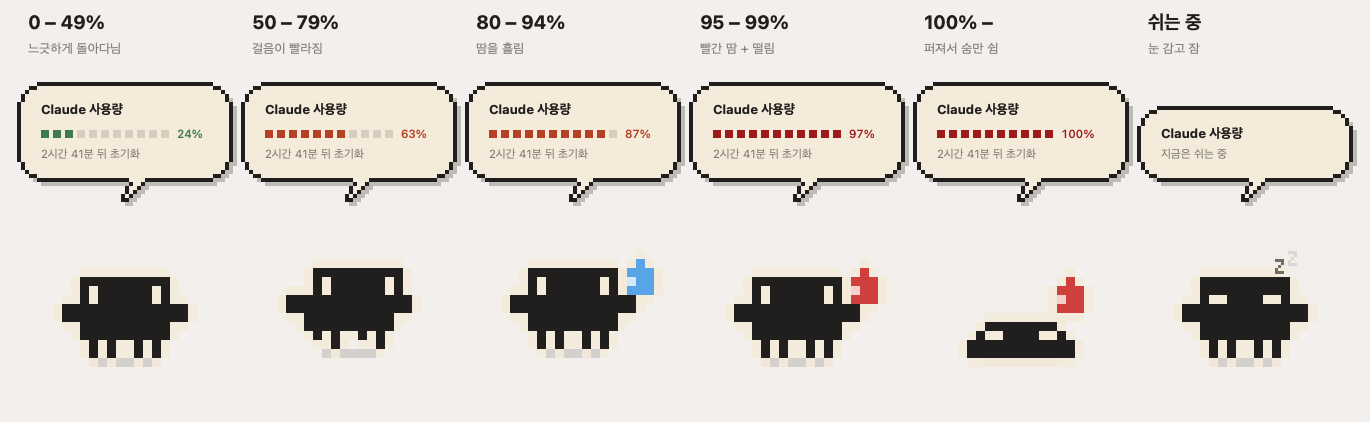
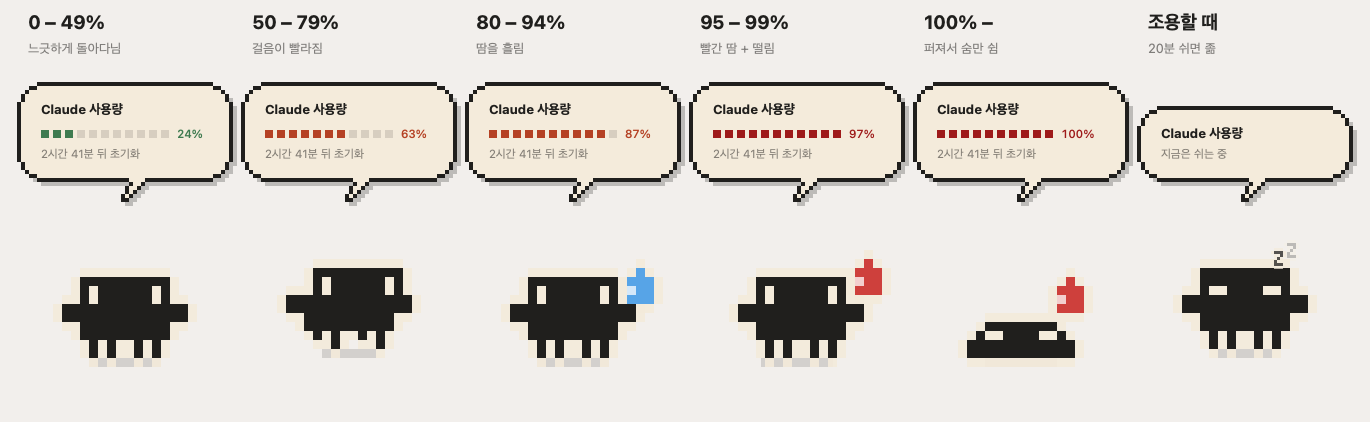
일정 시간 요청이 없으면 졸도록 변경
전에는 5시간 블록이 닫혀야만 잤다. 그래서 일을 일찍 끝내도 블록이 닫힐
때까지는 계속 깨어 서 있었다. 이제 마지막 요청 이후 doze_after_minutes
(기본 20분) 가 지나면 사용률과 무관하게 존다.

한도를 다 쓴 상태가 졸기보다 앞선다. 자는 동안에는 돌아다니지 않는다.

diff --git a/buddy/usage.py b/buddy/usage.py
@@ -287,18 +287,31 @@ class Snapshot:
     week_cost: float
     by_model: list[tuple[str, float]]   # (표시명, 비용) 내림차순
     total_requests: int
+    idle_seconds: float                 # 마지막 요청 이후 지난 시간
+    doze_after: float                   # 이만큼 조용하면 존다
 
     @property
     def has_data(self) -> bool:
         return self.total_requests > 0
 
     @property
+    def dozing(self) -> bool:
+        """블록은 열려 있지만 한동안 조용한 상태."""
+        return self.idle_seconds >= self.doze_after
+
+    @property
     def mood(self) -> str:
-        """마스코트 표정을 정하는 단계."""
+        """마스코트 표정을 정하는 단계.
+
+        한도를 다 쓴 상태가 가장 먼저다. 그다음이 졸기 — 쓰지 않는 동안에는
+        사용률이 얼마든 자게 둔다. 깨어 있을 때만 사용률로 표정을 정한다.
+        """
         if self.block is None or not self.block.is_active(self.generated_at):
             return "sleepy"
         if self.percent >= 100:
             return "exhausted"
+        if self.dozing:
+            return "sleepy"
         if self.percent >= 95:
             return "panic"
         if self.percent >= 80:
@@ -313,6 +326,7 @@ def summarize(
     block_hours: int = 5,
     manual_limit: float | None = None,
     now: float | None = None,
+    doze_after_seconds: float = 1200.0,
 ) -> Snapshot:
     now = now if now is not None else time.time()
     blocks = build_blocks(entries, block_hours)
@@ -359,6 +373,8 @@ def summarize(
         week_cost=w_cost,
         by_model=sorted(per_model.items(), key=lambda kv: -kv[1]),
         total_requests=len(entries),
+        idle_seconds=(now - entries[-1].ts) if entries else float("inf"),
+        doze_after=doze_after_seconds,
     )
 
 

diff --git a/buddy/app.py b/buddy/app.py
@@ -254,6 +254,7 @@ class BuddyController(NSObject):
                     self.index.entries,
                     self.cfg["block_hours"],
                     self.cfg.get("block_cost_limit"),
+                    doze_after_seconds=self._doze_seconds(),
                 )
             except Exception:  # 갱신 실패로 마스코트가 멈추면 안 된다
                 pass
@@ -291,6 +292,11 @@ class BuddyController(NSObject):
         self._update_bubble(now)
 
     @objc.python_method
+    def _doze_seconds(self) -> float:
+        minutes = float(self.cfg.get("doze_after_minutes") or 0)
+        return minutes * 60.0 if minutes > 0 else float("inf")
+
+    @objc.python_method
     def _demo_mood(self) -> str | None:
         """--demo 로 고정한 표정. cycle 이면 일정 간격으로 돌아간다."""
         if self.force_mood is None:
@@ -317,8 +323,8 @@ class BuddyController(NSObject):
             self.walk_state = "idle"
             self.state_until = max(self.state_until, now + 1.0)
             return
-        # 다 써 버려 누워 있는 동안에는 움직이지 않는다
-        if not self.cfg["mascot"].get("wander", True) or self.state.mood == "exhausted":
+        # 뻗어 있거나 자는 동안에는 움직이지 않는다
+        if not self.cfg["mascot"].get("wander", True) or self.state.mood in ("exhausted", "sleepy"):
             self.walk_state = "idle"
             return
 

diff --git a/buddy/cli.py b/buddy/cli.py
@@ -12,7 +12,13 @@ def _snapshot():
     cfg = config.load()
     index = UsageIndex(retention_days=cfg["retention_days"])
     index.refresh()
-    return summarize(index.entries, cfg["block_hours"], cfg.get("block_cost_limit"))
+    minutes = float(cfg.get("doze_after_minutes") or 0)
+    return summarize(
+        index.entries,
+        cfg["block_hours"],
+        cfg.get("block_cost_limit"),
+        doze_after_seconds=minutes * 60.0 if minutes > 0 else float("inf"),
+    )
 
 
 def print_report() -> None:
@@ -93,6 +99,8 @@ def print_json() -> None:
                 "today": {"cost_usd": round(snap.today_cost, 4), "tokens": snap.today_tokens},
                 "week": {"cost_usd": round(snap.week_cost, 4), "tokens": snap.week_tokens},
                 "by_model": [{"model": n, "cost_usd": round(c, 4)} for n, c in snap.by_model],
+                "idle_seconds": int(snap.idle_seconds) if snap.idle_seconds != float("inf") else None,
+                "dozing": snap.dozing,
                 "mood": snap.mood,
             },
             ensure_ascii=False,

diff --git a/buddy/config.py b/buddy/config.py
@@ -16,6 +16,8 @@ DEFAULTS: dict = {
     "block_hours": 5,
     # 블록 한도(USD 환산). null 이면 지난 블록 최대치를 기준으로 자동 추정한다.
     "block_cost_limit": None,
+    # 이만큼(분) 요청이 없으면 졸기 시작한다. 0 이면 졸지 않는다.
+    "doze_after_minutes": 20,
     # 트랜스크립트 보관 기간(일). 길수록 첫 색인이 느려진다.
     "retention_days": 30,
     "notify": {

diff --git a/tools/render_states.py b/tools/render_states.py
@@ -37,7 +37,7 @@ STATES = [
     ("worried", "80 – 94%", "땀을 흘림"),
     ("panic", "95 – 99%", "빨간 땀 + 떨림"),
     ("exhausted", "100% –", "퍼져서 숨만 쉼"),
-    ("sleepy", "쉬는 중", "눈 감고 잠"),
+    ("sleepy", "조용할 때", "20분 쉬면 졺"),
 ]
 PERCENTS = {"happy": 24.0, "busy": 63.0, "worried": 87.0, "panic": 97.0, "exhausted": 100.0}
 

diff --git a/README.md b/README.md
@@ -18,7 +18,7 @@
 | 80 – 94% | 땀을 흘립니다 |
 | 95 – 99% | 빨간 땀을 흘리며 덜덜 떱니다 |
 | 100% 이상 | 납작하게 퍼져 숨만 쉽니다. 이 동안엔 움직이지 않습니다 |
-| 쉬는 중 | 눈을 감고 잡니다 |
+| (사용률과 무관) | **20분 넘게 요청이 없으면 졸기 시작합니다.** 자는 동안엔 돌아다니지 않습니다 |
 
 실제로 움직이는 모습을 보려면:
 
@@ -130,6 +130,7 @@ Claude 사용량
   "refresh_seconds": 60,        // 사용량 다시 읽는 주기
   "block_hours": 5,             // 사용 블록 길이
   "block_cost_limit": null,     // 100% 기준 금액. null 이면 자동 추정
+  "doze_after_minutes": 20,     // 이만큼 요청이 없으면 졸기 시작. 0 이면 안 졺
   "retention_days": 30,         // 트랜스크립트 보관 기간
   "notify": {
     "enabled": true,
